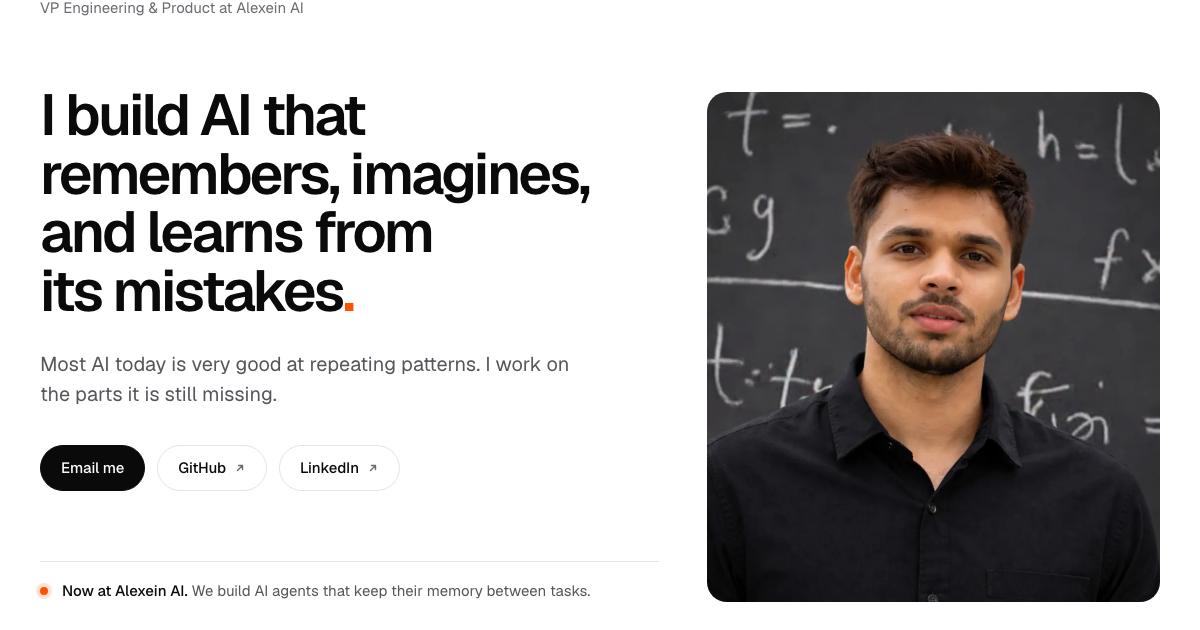
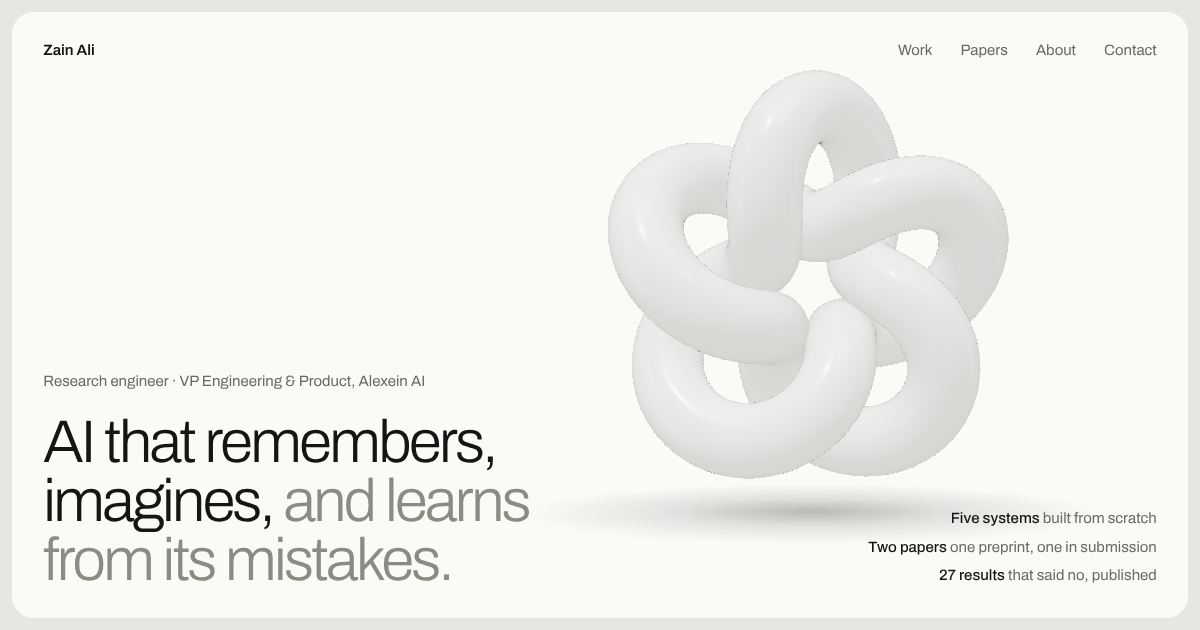
QA, social card and docs for the ceramic design
- qa.mjs checks what this design promises: no overflow from 360 to
  1920, only the knot moves (and holds still under reduced motion,
  while still taking the shape of the row you point at), the first
  screen holds, one family, red only on what said no.
- The social card is captured from the real first screen.
- README and public-assets describe the ceramic.

Claude-Session: https://claude.ai/code/session_01YYikj5seKbNY3qtg2LNyF9

diff --git a/README.md b/README.md
@@ -1,24 +1,33 @@
 # zainn.me
 
-Zain Ali's site, in plain words: what he builds, his open-source projects with one result each, the paper, where he has worked and studied, and how to reach him. Each project has a technical write-up behind its card, and one page lists everything that didn't work.
+Zain Ali's site: white, every section in its own rounded frame, one typeface, almost no text on the home page. The first frame holds one glossy white knot over a soft shadow; then the work and the papers as names and numbers beside a close view of the same knot, which becomes each project's own knot as you point at it; one sentence of belief, his record, and how to reach him. Each system has a technical write-up behind its row, and one page lists everything that didn't work.
+
+## Design
+
+- **White, framed.** Rounded white panels (`--panel`) twelve pixels apart on a pale stone page (`--page`). Ink for what you read, grey for what explains it. Blue (`--blue`) marks the row whose knot is showing. Red (`--coral`) appears only on what said no.
+- **One typeface.** Archivo, light (≈290) for anything large, regular for anything read. See `docs/type.md`.
+- **Almost no text on the home page.** One sentence, three facts, each project as a name, a field and one number; everything longer lives on the write-ups.
+- **Fig. 0.** `public/fig0.js` with three.js (vendored in `public/vendor/`, mapped by an import map): the ceramic. One torus knot glazed like porcelain (a physical material lit by a studio of soft boxes), over a blurred contact shadow. Each project has its own (p, q) knot — engram (2,3), loci (3,4), whetstone (2,7), spindle (3,5), reverie (5,3), CONOID (3,7); the home knot is (2,5) — and the shapes are morph targets of one mesh, so pointing at a row melts the knot into that project's knot, with a caption naming the pair. Two views — the first frame and a sticky close view beside the work — each with its own canvas, drawing only while on screen; paused in a background tab; under reduced motion it holds still and changes shape without moving.
 
 ## Stack
 
-Next.js (App Router, static export) and React 19. No client JavaScript on the home page or the ledger; case pages hydrate only the results filter and Copy BibTeX. One self-hosted font, Geist (a subset, weights 400–600); Source Serif 4 stands behind it for the few Greek letters in the write-ups.
+Next.js (App Router, static export) and React 19. The home page ships no framework JavaScript — only Fig. 0 and three.js — and the ledger none at all; case pages hydrate only Copy BibTeX.
 
 ## Run
 
 ```bash
 pnpm install
 pnpm dev      # http://localhost:3000
-pnpm build    # next build, strip JS from static pages, check-once
-pnpm qa       # Playwright over out/: overflow, motion, first screen, one family, the orange dot, cards, counts
+pnpm build    # next build, strip framework JS from static pages, check-once
+pnpm qa       # Playwright over out/: overflow, motion, first screen, one family, the colour law, rows, counts
+node scripts/og.mjs   # after a build: the social card, captured from the real hero
 ```
 
 ## Where things live
 
-- `lib/content.ts` — every word and number on the site. Each system's `plain` card copy, the technical write-ups, papers, experience, and the ledger of what didn't work. `GEDANKEN_PUBLIC` and `PMR_PUBLIC` keep unreleased work out of the export entirely.
+- `lib/content.ts` — every word and number on the site. `home` holds the copy only the home page prints (the opening sentence, each project's field, the ledger line, the contact line); systems, papers, experience, rules and the ledger hold the rest. `GEDANKEN_PUBLIC` and `PMR_PUBLIC` keep unreleased work out of the export entirely.
 - `lib/facts.ts` + `scripts/check-once.ts` — every fact on the home page appears exactly once; deep links resolve; banned and held strings appear nowhere.
-- `app/globals.css` — the design: tokens, hero, cards, the paper card, lists, write-up pages, figures.
+- `app/globals.css` — the design: tokens, the frames, header, the first frame, the work beside its close view, the belief, about, contact, write-up pages, figures, the schematic, the ledger.
+- `public/fig0.js` — Fig. 0; `public/vendor/three-0.160.0.module.min.js` — three.js r160 (MIT).
 - `scripts/qa.mjs` — what the design promises, checked in a real browser.
 - `docs/public-assets.md` — what `public/` serves and why.

diff --git a/docs/public-assets.md b/docs/public-assets.md
@@ -4,7 +4,9 @@ Everything in `public/` is published at zainn.me/<path>, linked or not, so it ho
 
 | file | used by |
 |---|---|
-| `profile.webp` | home hero portrait (source 900 × 1015) |
+| `profile.webp` | the portrait in the home page’s About section, printed in two colours by an SVG filter (source 900 × 1015) |
+| `fig0.js` | Fig. 0, the ceramic knot on the home page (the first frame and the close view beside the work) — the only script the home page ships |
+| `vendor/three-0.160.0.module.min.js` | three.js r160 (MIT), imported by `fig0.js` through the home page's import map |
 | `conoid/page-1.webp`, `page-1-360.webp`, `page-1-660.webp` | the first-page link on /papers/conoid |
 | `conoid/preprint.pdf` | the CONOID preprint, pages 1–16 only (the FYP poster and open-house deck that followed were cut on 2026-10-10; the full file is in git history) |
 | `CNAME`, `.nojekyll` | GitHub Pages |
